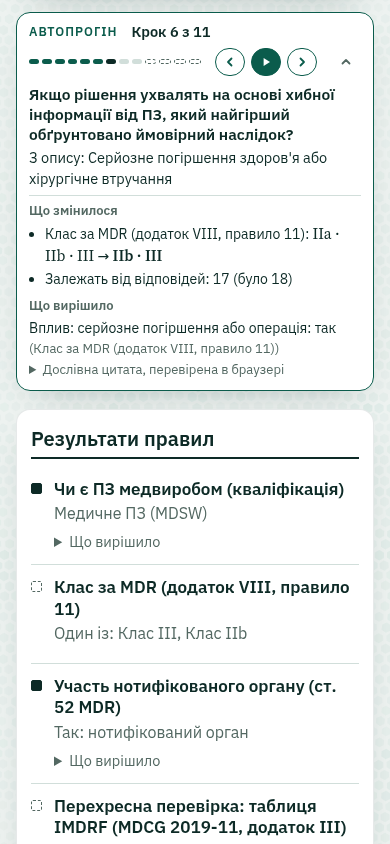
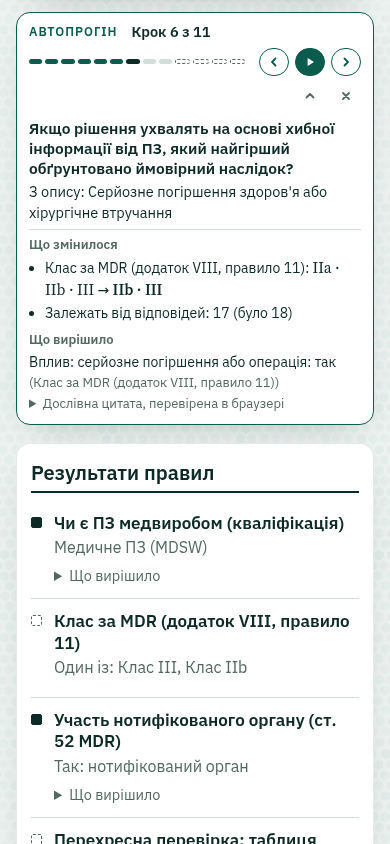
Docs: calmer wavelets on to the requirements, the theme switch, the guided run's tick; screenshots retaken
DECISIONS U12 (the wavelets' new pace and their way on through the open
branch, the light/dark switch and its first paint) and U13 (the tick, the
paused start, the focus on play, the row's x). README, SPEC and
ARCHITECTURE follow; BUILD_LOG records the round, the plan, the review's
findings and the fixes. All eleven screenshots retaken.

Changed region(s): [[0.0308, 0.0308, 0.9846, 1.0]]

diff --git a/docs/DECISIONS.md b/docs/DECISIONS.md
@@ -76,8 +76,8 @@
 | U9 | **Знімок даних — віртуальні модулі Vite**, які будує той самий білдер, що й `pnpm mrn snapshot` (`apps/cli/src/snapshot.ts`): модель (~220 КБ) іде з застосунком, тексти процитованих секцій (~320 КБ) — окремий чанк, що вантажиться з першою цитатою. Окремої копії даних у репозиторії немає. |
 | U10 | **React Flow пропускає події миші крізь вузол**, який не можна ні виділити, ні перетягнути (`pointer-events: none`). Наші вузли тримають кнопки, тож кожен вузол має `style.pointerEvents = "all"`. Знайдено e2e-тестом у Chromium: у happy-dom цього не видно. |
 | U11 | **Червона ручка — проєкти змін** (перемикач «Проєкти змін», `w=1` в URL). На драбині класів — лише коли проєкт її змінює: клас за проєктом обведено (суцільно — визначений, пунктиром — ще можливий), клас, який проєкт виключив би, закреслено; під драбиною словами «За проєктом: …». Листок, який проєкт змінює, має червоний рядок «за проєктом: …» і обведену позначку; ребро до нього червоне, але зберігає візерунок свого стану (чорнило, олівець, крапки). Вимоги, що застосовувалися б лише за проєктом, лишаються на мапі. Гілка пише, скільки пунктів змінює проєкт; питання, потрібні лише проєкту, — червоним пунктиром («Що вирішить за проєктом:»). Картка правила класу й чекліст мають секцію «Якби проєкт ухвалили» з червоною лінією на полі: результат і «що вирішило» за проєктом (дослівні цитати COM(2025) 1023), змінені вимоги, матриця переходів когорти (змінені клітинки червоні), умови узгодженості й приклади MDCG. Колір ніде не єдиний носій сенсу. |
-| U12 | **Вигляд як в інших демо автора** — [CQL demo](https://ytsuhen.github.io/CQL-Demo-Yevenko/) і [First Visit](https://ytsuhen.github.io/Pub-demos/first-visit/) (рішення Андрія, 28.10.2026). Будова екрана та сама (мапа, картка, чекліст), міняється лише вигляд. **Палітра «море»:** світлі й темні токени CQL demo (`--bg`, `--surface`, `--ink`, `--muted`, `--line`, `--accent`, `--amber`, `--fail`, `--sea-*`), схема — за налаштуванням системи. Семантика U1 та сама: чорнило — `--ink`, олівець — `--muted` пунктиром, крапки — чорнило крапками, червона ручка — `--fail`, маркер — бурштинова заливка під чорнилом (у темній схемі сам `--amber`; у світлій — світліший відтінок того самого тону, `#f2c46d`, бо темний `--amber` під чорнилом не читається). `--accent` — лише те, що натискають (кнопки, посилання, кільце фокусу), а не стан. Контраст AA перевірено для обох схем і для шапки над найяскравішим шестикутником: текст ≥ 4,5:1, римські цифри виключених класів (великий текст) ≥ 3:1. **Шрифти замість U2:** IBM Plex Sans — наш голос (інтерфейс, пояснення, і заголовок демо: це наш текст); Source Serif 4 — голос закону (дослівні цитати, посилання на джерела, римські цифри класів); JetBrains Mono — хеш секції й зсуви цитати. Усі з `@fontsource`, з кирилицею, офлайн (SIL OFL 1.1). Plex ширший за Arsenal: вузол гілки — 228 px разом із полями острівця (за Arsenal був 196), назви гілок 17 px; розклад і далі рахує d3-hierarchy за виміряними висотами. **Вода з шестикутників** (`lib/waves.ts`, «Adapted from ytsuhen/Pub-demos (first-visit), same author»), як вирішив Андрій після перегляду (28.10, третя версія): **море — під усім, що нижче шапки**, спокійне, у світлій схемі світле й мілке, у темній — глибоке. **Вир — лише в самому центрі мапи, довкола медвиробу:** вода біля вузла пристрою повільно обертається (оберт ≈ 45 с) і згасає в кільці 80 px за колом його кутів; далі море спокійне. **Від медвиробу до гілок біжать голуб'ячі хвильки:** кожна лінія від пристрою до гілки раз на 6,5–9 с пускає серію з трьох гребенів (≈ 32 px/с, кожен ≈ ±15 px поперек лінії), що виходить із краю пристрою й згасає біля гілки. Кольори — як на голубиній шиї, пурпурово-фіолетовий і зелений: на гребені фіолетовий уздовж лінії й зелений по краях, на наступному навпаки; не бірюзовий, бо той зливається з водою. Хвильки малює сам шейдер із невеликої текстури, у якій для кожної клітинки записано, наскільки близько лінія, як далеко вздовж неї від пристрою і яка це лінія; біля ліній вир слабшає, щоб хвильки читалися. Лінії до вимог хвильок не мають, сенсу хвильки не несуть. Де вузол пристрою (`data-whirl`) і лінії до гілок (`path[data-wave]`), полотно читає зі сторінки, тож вир і хвильки йдуть за автоматичним розкладом. У другій версії полотно моря саме ставило собі атрибут `data-whirl`, і після першого читання вир крутився довкола центру вікна з радіусом на весь екран — «суцільний водоворот»; тепер атрибути різні, а e2e перевіряє, що центр і радіус виру — це вузол пристрою. **Шапка — темна «річка» в обох схемах**, удвічі повільніша, ніж у другій версії: брижі витягнуті вздовж течії, що несе їх зліва направо (≈ 12–14 px/с). Голуб'ячої хвилі, що проносилася шапкою, більше немає; замість неї — **легенькі вкраплення голуб'ячих шестикутників**: раз на 1,6–2,8 с один шестикутник за 10–14 с наливається й гасне, пурпурово-фіолетовий, на якийсь час у найяскравішу мить зелений, і знову фіолетовий (повільне переливання). Вкраплення з'являються лише там, де в шапці немає тексту чи кнопок, тож світяться майже непрозоро й не зменшують контрасту тексту. **Текст — лише на острівцях:** опис ПЗ, картка автопрогону, легенда, вузли мапи, картка на полі й чекліст — суцільні аркуші з тінню, а між ними видно воду. Лінії мапи лежать на воді, на тонкій смужці паперу: чорнило, олівець, крапки й червона ручка мають той самий контраст, що й на папері (на самій воді бліда лінія «не застосовується» мала б лише ≈ 2,1:1). **Легенда — на самій мапі** (смужка над нею): видна, хоч би що показувала картка на полі, і під карткою автопрогону. Полотно моря заввишки з вікно лишається у вікні, поки сторінка гортається; шестикутники прив'язані до сторінки. Поля малюються WebGL2 одним викликом на кадр; без справжньої відеокарти річка йде на 2D-полотні (≈ десята частина часу сторінки), а море малюється один раз і стоїть; простоюють поза екраном і у фоновій вкладці; при `prefers-reduced-motion` — один статичний кадр. Глибока вода (річка, темне море) приглушена до ×0,62 від яскравості First Visit, світле море — бліда бірюза, спокійніша за темне; текст шапки на річці має AA. Рух перевірено тепловою картою (сума різниць кадрів у Chromium з програмним WebGL): біля пристрою вода рухається в 4–6 разів більше, ніж відкрите море, і вже на відстані 1,4 його півдіагоналі — як море; уздовж ліній до гілок — у 8–12 разів більше; e2e тримає це співвідношення (≥ 3×) і перевіряє, що при `prefers-reduced-motion` два кадри однакові. **Переливання на дію** (`lib/sheen.ts`): натиснутий елемент (кнопка, чип, відповідь, перемикач, крок автопрогону) ≈ 0,8 с переливається фіолетовим у зеленкувато-бірюзовий, як шия голуба; шестикутники відповідають хвилею тих самих кольорів, як рішення в CQL demo підсвічує шестикутники довкола себе: дія під шапкою (зокрема чип, що змінився на кроці автопрогону) — довкола себе в морі; дія в шапці — у річці. Це відгук, а не стан: окремий шар поверх елемента, що нічого не лишає й не несе сенсу. При `prefers-reduced-motion` — нічого, лише звичайне кільце фокусу. Відеопосібник записано до цієї зміни. |
-| U13 | **Автопрогін** (рішення Андрія, 28.10.2026): кнопка «Автопрогін» біля «Приклад із настанов» бере поточний опис ПЗ (приклад або відповіді з посилання) за ціль і проходить його з чистого аркуша. **Кроки — чиста функція в ядрі** (`guidedRun`, `packages/core/src/guided.ts`): кожен крок — перше питання `navigate().questions` (перша вирішальна невідома в порядку читання правил), якого прогін ще не минув; відповідь бере з опису, а якої немає — зупиняється й питає просто в картці кроку («Так» / «Ні» / варіанти / «Не знаю»). «Не знаю» лишає атрибут невідомим, і прогін іде до наступного питання. Тож жоден крок не питає вже відомого, і кожне питання — один раз. Перехресна перевірка MDCG у кроки не входить (вона необов'язкова, U5); її відповіді з опису приходять у підсумок. **Закривальний крок «Решта відповідей з опису»** з'являється лише тоді, коли без нього кінець відрізнявся б від `navigate()` на цілі: за тризначної логіки дві відповіді можуть мати значення лише разом (наприклад, «вплив рішення» і «клас апарата» разом виключають IIb, коли «не знаю» лишило відкритими обидва шляхи до нього), і жодна з них поодинці не є вирішальною невідомою, тож питанням не стає. Знайшов це властивісний тест на випадкових описах; на 23 прикладах MDCG і трьох описах, з якими показують демо, такого кроку немає (ні з «не знаю», ні з відповідями на відкриті питання). **Картка кроку:** «Крок k з N» (N — для відповідей, відомих зараз; питання, що чекає, рахується як «не знаю», доки на нього не відповіли), питання з `attributes.json` і відповідь («З опису» / «Ваша відповідь» / «Не знаю»), що змінилося (можливі результати правил у порядку екрана — кваліфікація, клас, нотифікований орган, AI Act — і скільки вимог застосовується), вузол, що вирішив (перший листок правила, який крок визначив, з його дослівною цитатою, перевіреною в браузері; якщо змінилися лише вимоги — сама вимога з цитатою правової основи). **Підсумок:** результат кожного правила, що лишилося невідомим, і які НПА виконувати — застосовні вимоги, згруповані за актом (регламенти, потім рішення; настанови й веб-сторінки — ні) і статтею з їхніх власних цитат, з датами чинності станом на обрану дату. Нового юридичного тексту немає: назви вимог — наші слова з каталогу, посилання на статті — з `sections.json`. **Відтворення:** крок ≈ 4 с, пауза, «Назад» і «Далі» (не далі питання, що чекає), ←/→ і пробіл (не тоді, коли фокус у полі вводу чи на кнопці); мапа й чекліст показують стан кроку, змінені чип, гілки й правила переливаються (U12). Відповідь, дана деінде на екрані під час прогону (чип, мапа, чекліст), іде в прогін; «Зупинити автопрогін» лишає опис разом із відповідями, даними дорогою. Крок — в адресі (`g` позиція, `gt` ціль, `ga` відповіді, «~» — «не знаю»; U8); посилання відкриває той самий крок на паузі. Картка — `aria-live`. Спершу вона стояла на полі замість картки прикладу й зсувала все; після перегляду (28.10) Андрій вирішив поставити її між описом ПЗ і мапою (чи чеклістом) на будь-якому екрані. Вона мінімальна (Андрій, 28.10: «поле автопрогону теж треба мінімізувати»): один рядок — «Автопрогін», де прогін, доріжка кроків, кнопки-іконки «Назад», «Відтворити» (натиснута — пауза; наприкінці — «Почати знову») і «Далі» (назви — їхні мітки, клавіші ←/→ і пробіл — у підказках) та кнопка, що згортає картку до цього рядка (на питанні, що чекає відповіді, картка розгортається сама, а рядок тоді оголошує, де прогін); під ним дві колонки — ліворуч питання й відповідь, праворуч що змінилося й що вирішило (на телефоні — одна колонка). Цитату вузла згорнуто під «Дослівна цитата, перевірена в браузері», перевірка та сама; у підсумку кожен акт згорнуто до назви й кількості статей. Натиснули «Автопрогін» — сторінка сама прокручується до картки (і ще раз, коли мапа під нею розклалася), тож мапа одразу під нею; посилання на крок лишає сторінку вгорі, з банером. |
+| U12 | **Вигляд як в інших демо автора** — [CQL demo](https://ytsuhen.github.io/CQL-Demo-Yevenko/) і [First Visit](https://ytsuhen.github.io/Pub-demos/first-visit/) (рішення Андрія, 28.10.2026). Будова екрана та сама (мапа, картка, чекліст), міняється лише вигляд. **Палітра «море»:** світлі й темні токени CQL demo (`--bg`, `--surface`, `--ink`, `--muted`, `--line`, `--accent`, `--amber`, `--fail`, `--sea-*`), схема — за налаштуванням системи, доки людина не вибере «Світла» чи «Темна» перемикачем у шапці (вибір пам'ятається в браузері й ставиться ще до першого малювання маленьким скриптом у `index.html`, а не після завантаження застосунку; у посилання не йде: це вподобання глядача, а не стан опису; шапка лишається темною в обох). Семантика U1 та сама: чорнило — `--ink`, олівець — `--muted` пунктиром, крапки — чорнило крапками, червона ручка — `--fail`, маркер — бурштинова заливка під чорнилом (у темній схемі сам `--amber`; у світлій — світліший відтінок того самого тону, `#f2c46d`, бо темний `--amber` під чорнилом не читається). `--accent` — лише те, що натискають (кнопки, посилання, кільце фокусу), а не стан. Контраст AA перевірено для обох схем і для шапки над найяскравішим шестикутником: текст ≥ 4,5:1, римські цифри виключених класів (великий текст) ≥ 3:1. **Шрифти замість U2:** IBM Plex Sans — наш голос (інтерфейс, пояснення, і заголовок демо: це наш текст); Source Serif 4 — голос закону (дослівні цитати, посилання на джерела, римські цифри класів); JetBrains Mono — хеш секції й зсуви цитати. Усі з `@fontsource`, з кирилицею, офлайн (SIL OFL 1.1). Plex ширший за Arsenal: вузол гілки — 228 px разом із полями острівця (за Arsenal був 196), назви гілок 17 px; розклад і далі рахує d3-hierarchy за виміряними висотами. **Вода з шестикутників** (`lib/waves.ts`, «Adapted from ytsuhen/Pub-demos (first-visit), same author»), як вирішив Андрій після перегляду (28.10, третя версія): **море — під усім, що нижче шапки**, спокійне, у світлій схемі світле й мілке, у темній — глибоке. **Вир — лише в самому центрі мапи, довкола медвиробу:** вода біля вузла пристрою повільно обертається (оберт ≈ 45 с) і згасає в кільці 80 px за колом його кутів; далі море спокійне. **Від медвиробу до гілок біжать голуб'ячі хвильки** (спокійніші з четвертої версії, на прохання Андрія): кожна лінія від пристрою до гілки раз на 10–14 с пускає два гребені (≈ 16 px/с, кожен ≈ ±15 px поперек лінії, м'яко: непрозорість ≈ 0,5, колір не до кінця голубиний), що виходять із краю пристрою й згасають біля гілки. **Від розгорнутої гілки хвилька йде далі** всіма лініями до її вимог, ніби пройшовши крізь острівець (≈ 0,8 с під ним, а не всю його ширину): один гребінь тих самих кольорів, прозоріший (≈ 60 %), згасає біля вимоги; кожна лінія тримає власний шлях до 1020 px, тож довгі лінії до вимог не обрізаються. Кольори — як на голубиній шиї, пурпурово-фіолетовий і зелений: на гребені фіолетовий уздовж лінії й зелений по краях, на наступному навпаки, перехід плавний; не бірюзовий, бо той зливається з водою. Хвильки малює сам шейдер із невеликої текстури, у якій для кожної клітинки записано, наскільки близько лінія, як далеко вздовж шляху від пристрою (для ліній до вимог — шлях іде далі через гілку) і яка це лінія; хвилі біжать потягами з періодом, тож довгі лінії до вимог не розтягують інтервал; біля ліній вир слабшає, щоб хвильки читалися. Сенсу хвильки не несуть. Де вузол пристрою (`data-whirl`) і лінії до гілок (`path[data-wave]`), полотно читає зі сторінки, тож вир і хвильки йдуть за автоматичним розкладом. У другій версії полотно моря саме ставило собі атрибут `data-whirl`, і після першого читання вир крутився довкола центру вікна з радіусом на весь екран — «суцільний водоворот»; тепер атрибути різні, а e2e перевіряє, що центр і радіус виру — це вузол пристрою. **Шапка — темна «річка» в обох схемах**, удвічі повільніша, ніж у другій версії: брижі витягнуті вздовж течії, що несе їх зліва направо (≈ 12–14 px/с). Голуб'ячої хвилі, що проносилася шапкою, більше немає; замість неї — **легенькі вкраплення голуб'ячих шестикутників**: раз на 1,6–2,8 с один шестикутник за 10–14 с наливається й гасне, пурпурово-фіолетовий, на якийсь час у найяскравішу мить зелений, і знову фіолетовий (повільне переливання). Вкраплення з'являються лише там, де в шапці немає тексту чи кнопок, тож світяться майже непрозоро й не зменшують контрасту тексту. **Текст — лише на острівцях:** опис ПЗ, картка автопрогону, легенда, вузли мапи, картка на полі й чекліст — суцільні аркуші з тінню, а між ними видно воду. Лінії мапи лежать на воді, на тонкій смужці паперу: чорнило, олівець, крапки й червона ручка мають той самий контраст, що й на папері (на самій воді бліда лінія «не застосовується» мала б лише ≈ 2,1:1). **Легенда — на самій мапі** (смужка над нею): видна, хоч би що показувала картка на полі, і під карткою автопрогону. Полотно моря заввишки з вікно лишається у вікні, поки сторінка гортається; шестикутники прив'язані до сторінки. Поля малюються WebGL2 одним викликом на кадр; без справжньої відеокарти річка йде на 2D-полотні (≈ десята частина часу сторінки), а море малюється один раз і стоїть; простоюють поза екраном і у фоновій вкладці; при `prefers-reduced-motion` — один статичний кадр. Глибока вода (річка, темне море) приглушена до ×0,62 від яскравості First Visit, світле море — бліда бірюза, спокійніша за темне; текст шапки на річці має AA. Рух перевірено тепловою картою (сума різниць кадрів у Chromium з програмним WebGL): біля пристрою вода рухається в 4–6 разів більше, ніж відкрите море, і вже на відстані 1,4 його півдіагоналі — як море; уздовж ліній до гілок — у 8–12 разів більше; e2e тримає це співвідношення (≥ 3×) і перевіряє, що при `prefers-reduced-motion` два кадри однакові. **Переливання на дію** (`lib/sheen.ts`): натиснутий елемент (кнопка, чип, відповідь, перемикач, крок автопрогону) ≈ 0,8 с переливається фіолетовим у зеленкувато-бірюзовий, як шия голуба; шестикутники відповідають хвилею тих самих кольорів, як рішення в CQL demo підсвічує шестикутники довкола себе: дія під шапкою (зокрема чип, що змінився на кроці автопрогону) — довкола себе в морі; дія в шапці — у річці. Це відгук, а не стан: окремий шар поверх елемента, що нічого не лишає й не несе сенсу. При `prefers-reduced-motion` — нічого, лише звичайне кільце фокусу. Відеопосібник записано до цієї зміни. |
+| U13 | **Автопрогін** (рішення Андрія, 28.10.2026): галочка «Автопрогін» біля «Приклад із настанов» (спершу це була кнопка; галочку Андрій попросив, щоб без неї сторінка лишалася звичайним навігатором) показує рядок автопрогону на початку, на паузі (▶ запускає; фокус переходить на ▶, тож пробіл одразу запускає прогін, а не знімає галочку, яку прокрутка вже сховала; у самому рядку є «×» — вимкнути), і бере поточний опис ПЗ (приклад або відповіді з посилання) за ціль і проходить його з чистого аркуша. **Кроки — чиста функція в ядрі** (`guidedRun`, `packages/core/src/guided.ts`): кожен крок — перше питання `navigate().questions` (перша вирішальна невідома в порядку читання правил), якого прогін ще не минув; відповідь бере з опису, а якої немає — зупиняється й питає просто в картці кроку («Так» / «Ні» / варіанти / «Не знаю»). «Не знаю» лишає атрибут невідомим, і прогін іде до наступного питання. Тож жоден крок не питає вже відомого, і кожне питання — один раз. Перехресна перевірка MDCG у кроки не входить (вона необов'язкова, U5); її відповіді з опису приходять у підсумок. **Закривальний крок «Решта відповідей з опису»** з'являється лише тоді, коли без нього кінець відрізнявся б від `navigate()` на цілі: за тризначної логіки дві відповіді можуть мати значення лише разом (наприклад, «вплив рішення» і «клас апарата» разом виключають IIb, коли «не знаю» лишило відкритими обидва шляхи до нього), і жодна з них поодинці не є вирішальною невідомою, тож питанням не стає. Знайшов це властивісний тест на випадкових описах; на 23 прикладах MDCG і трьох описах, з якими показують демо, такого кроку немає (ні з «не знаю», ні з відповідями на відкриті питання). **Картка кроку:** «Крок k з N» (N — для відповідей, відомих зараз; питання, що чекає, рахується як «не знаю», доки на нього не відповіли), питання з `attributes.json` і відповідь («З опису» / «Ваша відповідь» / «Не знаю»), що змінилося (можливі результати правил у порядку екрана — кваліфікація, клас, нотифікований орган, AI Act — і скільки вимог застосовується), вузол, що вирішив (перший листок правила, який крок визначив, з його дослівною цитатою, перевіреною в браузері; якщо змінилися лише вимоги — сама вимога з цитатою правової основи). **Підсумок:** результат кожного правила, що лишилося невідомим, і які НПА виконувати — застосовні вимоги, згруповані за актом (регламенти, потім рішення; настанови й веб-сторінки — ні) і статтею з їхніх власних цитат, з датами чинності станом на обрану дату. Нового юридичного тексту немає: назви вимог — наші слова з каталогу, посилання на статті — з `sections.json`. **Відтворення:** крок ≈ 4 с, пауза, «Назад» і «Далі» (не далі питання, що чекає), ←/→ і пробіл (не тоді, коли фокус у полі вводу чи на кнопці); мапа й чекліст показують стан кроку, змінені чип, гілки й правила переливаються (U12). Відповідь, дана деінде на екрані під час прогону (чип, мапа, чекліст), іде в прогін; Зняти галочку — рядок зникає, а опис лишається разом із відповідями, даними дорогою. Крок — в адресі (`g` позиція, `gt` ціль, `ga` відповіді, «~» — «не знаю»; U8); посилання відкриває той самий крок на паузі. Картка — `aria-live`. Спершу вона стояла на полі замість картки прикладу й зсувала все; після перегляду (28.10) Андрій вирішив поставити її між описом ПЗ і мапою (чи чеклістом) на будь-якому екрані. Вона мінімальна (Андрій, 28.10: «поле автопрогону теж треба мінімізувати»): один рядок — «Автопрогін», де прогін, доріжка кроків, кнопки-іконки «Назад», «Відтворити» (натиснута — пауза; наприкінці — «Почати знову») і «Далі» (назви — їхні мітки, клавіші ←/→ і пробіл — у підказках) та кнопка, що згортає картку до цього рядка (на питанні, що чекає відповіді, картка розгортається сама, а рядок тоді оголошує, де прогін); під ним дві колонки — ліворуч питання й відповідь, праворуч що змінилося й що вирішило (на телефоні — одна колонка). Цитату вузла згорнуто під «Дослівна цитата, перевірена в браузері», перевірка та сама; у підсумку кожен акт згорнуто до назви й кількості статей. Натиснули «Автопрогін» — сторінка сама прокручується до картки (і ще раз, коли мапа під нею розклалася), тож мапа одразу під нею; посилання на крок лишає сторінку вгорі, з банером. |
 
 ## Відкриті питання для регуляторного фахівця
 

diff --git a/docs/ARCHITECTURE.md b/docs/ARCHITECTURE.md
@@ -238,22 +238,23 @@ market stands on exactly one branch.
 | `src/state.tsx` | `AppProvider` / `useApp()`: language, market, view, as-of date, answers, example, expanded branch, card selection, proposals, attribute editor, hover, the guided run (its description, the answers given on the way, the position, playing; the reducer works the run out again and puts its position's answers on screen); `described` (the description, the run's end while it is on); mirrored in the URL hash |
 | `src/lib/route.ts` | `encodeRoute`, `parseRoute`, `encodeProfile`, `parseProfile`, `encodeAnswers`, `parseAnswers`: `#m=EU&v=map&d=…&x=<example>&p=attr.value_…&b=<branch>&s=o.<obligation>\|r.<rule>\|x&w=1&l=en`, and for the guided run `g=<position>&gt=<description>&ga=<answers, ~ = don't know>` |
 | `src/lib/guided.ts` | `guidedState(model, input, asOf)` (the run, the position kept within reach), `profileAt(run, at)`, `stepAt`, `lastReachable`, `presentedRules(market)`, `actsOf(snapshot, navigation)` (the requirements that apply by legal act and article from their quotes, in reading order) |
-| `src/components/Guided.tsx` | `GuidedButton`, `GuidedCard` (a small island between the description and the map, brought to the top when the run is started with a press: one row with the position, the track, icon controls — their names as labels, their keys in tooltips — and a button that folds the card down to that row; under it the step in two columns — question, answer or the answer control; what changed, what decided it with its folded quote — or the blank sheet, or the summary with each act folded to its name and article count), `useGuidedPlayback(screen)` (a step every `STEP_MS`, ←/→ and space, the sheen on `changedKeys`) |
+| `src/components/Guided.tsx` | `GuidedCheck` (the tick beside the example picker: on, the run's row at its start, paused; off, the row goes and the description stays), `GuidedCard` (a small island between the description and the map, brought to the top when the run is ticked on, the focus then on ▶; a × in its row turns the run off: one row with the position, the track, icon controls — their names as labels, their keys in tooltips — and a button that folds the card down to that row; under it the step in two columns — question, answer or the answer control; what changed, what decided it with its folded quote — or the blank sheet, or the summary with each act folded to its name and article count), `useGuidedPlayback(screen)` (a step every `STEP_MS`, ←/→ and space, the sheen on `changedKeys`) |
 | `src/data.tsx` | `DataProvider`, `useSnapshot()`, `useSections()` (lazy), `useScreen()`: `navigate()` + `buildView()` memoised per state |
 | `src/lib/view.ts` | `changedKeys(before, after)` (the `data-flash` keys of what changed between two screens: chips, branches, rules); `buildView(snapshot, market, navigation, profile)` → `ScreenView`: device (qualification, ladder steps value/possible/excluded, the proposal's steps and questions), branches (state open / in-force / upcoming / none, leaves, counts, support, questions — each question once on the map — and how many leaves the proposal changes), leaves (with `proposal`: a rule's outcomes or an obligation's state under the proposal, when different), chips (shown / folded / needed only for the proposal), leaves by key |
 | `src/lib/layout.ts` | `layoutMap(input)` → positions: device centred, branches by side, the expanded branch's leaves beyond it; `d3-hierarchy` tidy trees per side with measured heights |
 | `src/lib/quotes.ts` | `verifyQuote`, `sectionSha256`, `quoteView(citation, section, context, format)` (window + display reflow), `reflow`, `hostOf` |
 | `src/lib/dates.ts` | `todayIso`, `toDays` / `fromDays`, `formatDate(iso, lang)`, `keyDates(model)`, `sliderRange` |
-| `src/components/MapView.tsx` | The legend, a strip on the map; React Flow canvas: device node (label with the class ladder and its first question; `data-whirl` for the sea), branch nodes (inline question), leaf nodes — islands over the sea — and ink edges (solid / dashed / dotted, on a paper casing, marker underlay on hover; the edges from the device are `path[data-wave]`, for the sea's wavelets); with proposals on, the red pen (`data-proposal`); viewport fitted to the width |
+| `src/components/MapView.tsx` | The legend, a strip on the map; React Flow canvas: device node (label with the class ladder and its first question; `data-whirl` for the sea), branch nodes (inline question), leaf nodes — islands over the sea — and ink edges (solid / dashed / dotted, on a paper casing, marker underlay on hover; every edge is `path[data-wave]` with its source and `data-to` its target, for the sea's wavelets to run from the device to the branches and on to the open branch's requirements); with proposals on, the red pen (`data-proposal`); viewport fitted to the width |
 | `src/components/DeviceChips.tsx` | The description of the software, the first island under the masthead: preset picker, the guided run's button, attribute chips by group (answered, decisive unknown, folded rest), the attribute editor with the concept's quote |
 | `src/components/Card.tsx` | The margin note, an island beside the map: obligation (how to comply, depends on, legal basis, guidance), rule (result, questions, what decided it, why not stricter, and with proposals on the proposal's section), device (the example's quote and our reading) |
 | `src/components/Proposal.tsx` | `ProposalSection` ("if the proposal were adopted": result and what decided it under the revision, changed requirements, the cohort's transition matrix with its coherence conditions, the MDCG examples; heading level and folding set by the host), `proposalWords(leaf, t, lang)` |
 | `src/components/Questions.tsx` | `useAsk` (open an attribute's editor), `QuestionList`, `SupportList` (shared by the card, the proposal section, the map) |
 | `src/components/Checklist.tsx` | The same content as a document: rule results, open questions with inline answers, each branch's obligations; with proposals on, the same red-pen lines and the proposal's section |
-| `src/components/Explain.tsx`, `Quote.tsx`, `Shell.tsx`, `ui.tsx` | Witness lists (heading level set by the host); quotes with context and the browser's check (the hash and offsets in mono); banner, masthead (a dark band over the river; market, as-of slider with key dates, proposals, view, language), next-stage placeholder, footer; shared controls, the device's name and `rich` (a message with elements in its placeholders) |
-| `src/lib/waves.ts` | `startWaves(canvas, host, "webgl2" \| "2d", { water: "sea" \| "river", palette?, origin?, geometry?, geometryKey?, sprinkles?, avoid?, animate2d?, anyGl?, share? })` → `{ renderer, light(x, y, reach), stop() }`: a hexagon field (DECISIONS U12; adapted from ytsuhen/Pub-demos first-visit) — the calm sea (its `palette` read each frame, `SHALLOW` or `DEEP`; its grid fixed to the page through `origin`; in WebGL2, from `geometry` — read again at once when `geometryKey` changes, else every 400 ms — a whirlpool right round the device and trains of pigeon wavelets along the lines from it to the branches, drawn by the shader from a small texture of those lines; the canvas reports `data-whirlpool` and `data-wavelines` for tests) or the slow river whose ripples run along a current, with pigeon hexagons here and there (`sprinkles`) kept off the boxes `avoid` returns (its text); one instanced draw a frame, each light (a burst, a sprinkle) a uniform with its own colour and opacity; idle off screen and in a hidden tab, one static frame without lights under reduced motion; without a graphics card the 2D painter takes at most `share` of the page's time, or draws once (`animate2d: false`) |
+| `src/components/Explain.tsx`, `Quote.tsx`, `Shell.tsx`, `ui.tsx` | Witness lists (heading level set by the host); quotes with context and the browser's check (the hash and offsets in mono); banner, masthead (a dark band over the river; market, as-of slider with key dates, proposals, view, language, light or dark theme), next-stage placeholder, footer; shared controls, the device's name and `rich` (a message with elements in its placeholders) |
+| `src/lib/waves.ts` | `startWaves(canvas, host, "webgl2" \| "2d", { water: "sea" \| "river", palette?, origin?, geometry?, geometryKey?, sprinkles?, avoid?, animate2d?, anyGl?, share? })` → `{ renderer, light(x, y, reach), stop() }`: a hexagon field (DECISIONS U12; adapted from ytsuhen/Pub-demos first-visit) — the calm sea (its `palette` read each frame, `SHALLOW` or `DEEP`; its grid fixed to the page through `origin`; in WebGL2, from `geometry` — read again at once when `geometryKey` changes, else every 400 ms — a whirlpool right round the device and calm trains of pigeon wavelets along the lines from it to the branches and on, fainter, along the lines that carry them (`from`) to the open branch's requirements, drawn by the shader from a small texture of those lines and their way along from the device; the canvas reports `data-whirlpool`, `data-wavelines` (lines from the device and onward) and `data-water` (which palette) for tests) or the slow river whose ripples run along a current, with pigeon hexagons here and there (`sprinkles`) kept off the boxes `avoid` returns (its text); one instanced draw a frame, each light (a burst, a sprinkle) a uniform with its own colour and opacity; idle off screen and in a hidden tab, one static frame without lights under reduced motion; without a graphics card the 2D painter takes at most `share` of the page's time, or draws once (`animate2d: false`) |
 | `src/lib/sheen.ts` | `sheen(el)` (the iridescent layer over an element, following it while it moves, and a light on the waves), `sheenKeys(keys)` (every `[data-flash]` with one of the keys), `installSheen(document)` (a delegated click listener), `addLightSink` (a field of waves hears every sheen), `reducedMotion` |
 | `src/components/Waves.tsx` | `HexWaves({ water })`: the river behind the masthead (`.sea-band`; its sprinkles kept off the masthead's text and controls), or the sea under the work area (`.page-sea`: a canvas the window's height that stays in view as the page scrolls; it follows the colour scheme and reads the map from the page — `.react-flow [data-whirl]`, `path[data-wave]`, and the viewport's transform to notice a drag or a zoom); WebGL2 first, a fresh canvas for the 2D painter when it fails; lights its hexagons round an action inside its area |
+| `src/lib/theme.ts` | `useTheme()` (the scheme shown and a way to choose light or dark, remembered in `localStorage`; until a choice, the system's), `isDark()`, `applyStoredTheme()`; a small inline script in `index.html` puts the stored choice on the root before the first paint: the choice is `data-theme` on the root, read by the stylesheet's `light-dark()` tokens and the sea's palette |
 | `src/i18n/dict.ts` | Every UI string in Ukrainian and English, with plural forms |
 
 Tests: `apps/web/test` (vitest; components under happy-dom) — view model (proposals included), layout (no overlap,
@@ -264,10 +265,10 @@ section and the checklist's red pen. `apps/web/e2e` (`pnpm e2e`, not in `verify`
 into 2 August 2028, the proposals switch, the checklist, a phone viewport; `design.e2e.ts` checks the look (U12): the
 three fonts, the river in the masthead and the sea under the work area on a 2D canvas and in WebGL2 (a software one
 allowed by `__wavesAnyGL`; there the whirlpool's centre and radius are the device node's, wavelets run along the six
-lines to the branches only, and screenshots show the water beside the device moving at least 3× the open sea, which
-stays calm, and the same frame twice under reduced motion), the sea in view as a long page scrolls, no canvas inside
-the islands, the legend on
-the map beside a card and during the guided run, the sheen and its absence under reduced motion, every map label
+lines to the branches and on along every line of the open branch, and screenshots show the water by the device moving
+well above the open sea, which stays calm, and the same frame twice under reduced motion), the sea in view as a long
+page scrolls, no canvas inside the islands, the theme switch (light and dark, the sea's water with it, remembered), the
+legend on the map beside a card and during the guided run, the sheen and its absence under reduced motion, every map label
 inside its node at 1440 and 390 px; `guided.e2e.ts` walks the guided run (U13), with the card brought to the top on a
 press and the page left at its banner by a link, and the card folded down to its one row while the run goes on, opening
 again at a question that waits for an answer;

diff --git a/README.md b/README.md
@@ -33,8 +33,9 @@
   дослівними цитатами.
 - **«Не знаю» — теж відповідь.** Тризначна логіка: невідомий атрибут дає множину можливих результатів, а не вгадування;
   питання, що їх звузять, стоять просто на мапі, кожне один раз.
-- **Автопрогін.** Кнопка «Автопрогін» біля «Приклад із настанов» проходить поточний опис ПЗ (приклад або відповіді з
-  посилання) з чистого аркуша: кожен крок — перше питання, яке поставили б правила в тому порядку, у якому їх читають.
+- **Автопрогін.** Галочка «Автопрогін» біля «Приклад із настанов» показує рядок автопрогону (без неї сторінка —
+  звичайний навігатор); ▶ проходить поточний опис ПЗ (приклад або відповіді з посилання) з чистого аркуша: кожен крок —
+  перше питання, яке поставили б правила в тому порядку, у якому їх читають.
   Відповідь прогін бере з опису, а якої в описі немає — питає просто в картці кроку; «Не знаю» лишає її невідомою, і
   прогін іде далі. Картка кроку мінімальна й стоїть між описом ПЗ і мапою: рядок із доріжкою кроків і кнопками (до
   нього картку можна згорнути), під ним питання й відповідь, що змінилося (можливі класи, кваліфікація, нотифікований
@@ -50,8 +51,8 @@
   перевіряє кожну, а браузер повторює перевірку й показує її результат під цитатою.
 - **Аналіз правил.** Повне покриття простору атрибутів (кожна комбінація відповідей, «не знаю» включно, дає клас або
   явну множину класів), MC/DC для кожного листка правила, «що як» для проєкту змін; 23 еталонні приклади MDCG проходять.
-- Українська й англійська, світла й темна схеми, чекліст як повна альтернатива мапі (телефон, екранні читачі), офлайн:
-  жодних CDN, зовнішніх шрифтів чи запитів.
+- Українська й англійська; світла й темна схеми — за системою або перемикачем у шапці (вибір пам'ятається); чекліст як
+  повна альтернатива мапі (телефон, екранні читачі); офлайн: жодних CDN, зовнішніх шрифтів чи запитів.
 
 ## Чого не вміє
 
@@ -168,5 +169,6 @@ sha256, витягнутий текст):
 витягнуто текст, нормалізовано пробіли й символи, прибрано службові маркери консолідації; оригінали збережено без змін.
 Шрифти IBM Plex Sans, Source Serif 4 і JetBrains Mono — SIL Open Font License 1.1; React Flow — MIT. Вигляд (палітра
 «море»: спокійне море з шестикутників під усім, що нижче шапки, з виром лише довкола медвиробу й голуб'ячими хвильками
-від нього до гілок, текст — на острівцях; у шапці — повільна річка з голуб'ячими вкрапленнями) — як в інших демо автора:
+від нього до гілок і далі до вимог розгорнутої гілки, текст — на острівцях; у шапці — повільна річка з голуб'ячими
+вкрапленнями) — як в інших демо автора:
 [CQL demo](https://ytsuhen.github.io/CQL-Demo-Yevenko/) і [First Visit](https://ytsuhen.github.io/Pub-demos/first-visit/).

diff --git a/docs/BUILD_LOG.md b/docs/BUILD_LOG.md
@@ -510,4 +510,19 @@ README про перехідні положення каже лише загал
   ≈ 147°), спокійне море в обох схемах і мінімальну картку. Перевірено: `pnpm verify` (190 тестів), `pnpm e2e`
   (27 тестів), знімки README. Не перевірено: плавність руху на справжній відеокарті (вимірювання — у Chromium із
   програмним WebGL, кілька кадрів на секунду), Firefox і Safari.
+- **Четверта версія** (28.10): ти попросив спокійніші переливи від пристрою до гілок, щоб вони йшли й далі від гілок
+  до підлеглих; перемикач світлої й темної теми; галочку, що вмикає рядок автопрогону, коли його не треба. Перед
+  початком я запропонував, як саме (ти прийняв): хвильки вдвічі повільніші (≈ 16 px/с), по два гребені раз на
+  10–14 с, м'якші; від розгорнутої гілки — далі до її вимог одним гребенем, тихіше; перемикач «Світла / Темна» в шапці
+  поруч із мовою (до вибору — як у системі, вибір пам'ятає браузер, у посилання не йде); галочка «Автопрогін» замість
+  кнопки, рядок з'являється на паузі. Дорогою: тест перемикача теми спершу не міг натиснути підпис (поверх нього
+  лежить прозора радіокнопка) — тепер вибирає саму радіокнопку, як тест мови; полотно моря тепер каже, яку воду
+  малює (`data-water`), і тест перевіряє, що вона міняється разом із темою навіть у нерухомому морі. Агент-рецензент
+  знайшов: пробіл одразу після галочки знімав її (фокус лишався на галочці, яку прокрутка вже сховала), продовження
+  хвильки з'являлося аж через ~12 с (воно «пливло» під острівцем гілки всю його ширину) і було сіре (слабшав колір, а
+  не лише прозорість), довгі лінії до вимог обрізалися на 765 px, тема перші кадри блимала системною, а мапа з
+  розгорнутою гілкою перебудовувалася на кожному кадрі перетягування. Виправлено: фокус на ▶ і «×» у рядку; ≈ 0,8 с
+  під острівцем; слабшає лише прозорість; власна довжина кожної лінії до 1020 px; тема — скриптом у `index.html` до
+  першого малювання; при перетягуванні мапа ліній лише зсувається. Нові тести: клавіші одразу після галочки, тема без
+  скрипту застосунку, юніт-тест мапи ліній. Перевірено: `pnpm verify` (194 тести), `pnpm e2e` (30 тестів), знімки.
 - **Не зроблено:** гілку не злито в main і Pages не запускано — це твій крок після перегляду.

diff --git a/docs/SPEC.md b/docs/SPEC.md
@@ -70,7 +70,8 @@
 розгортається одна. Наведення на атрибут підсвічує спричинені гілки й навпаки. Пунктирні гілки залежать від невідомого
 атрибута; поруч — питання, що це вирішить. Картка «як виконати» збоку: вимога → документ/доказ → стандарт → хто → з
 якої дати + цитата з посиланням. Повзунок «станом на» і перемикач «проєкти змін». Чекліст — повна альтернатива карті з
-тих самих даних (телефон, екранні читачі). Українська за замовчуванням, EN — перемикачем. Банер-дисклеймер завжди.
+тих самих даних (телефон, екранні читачі). Українська за замовчуванням, EN — перемикачем; світла чи темна схема — за
+системою або перемикачем у шапці. Банер-дисклеймер завжди.
 Розклад графа — `d3-hierarchy`, без ручних координат.
 
 Як це втілено (DECISIONS U1–U13): у вузлі пристрою — драбина класів I · IIa · IIb · III, де визначений клас виділено
